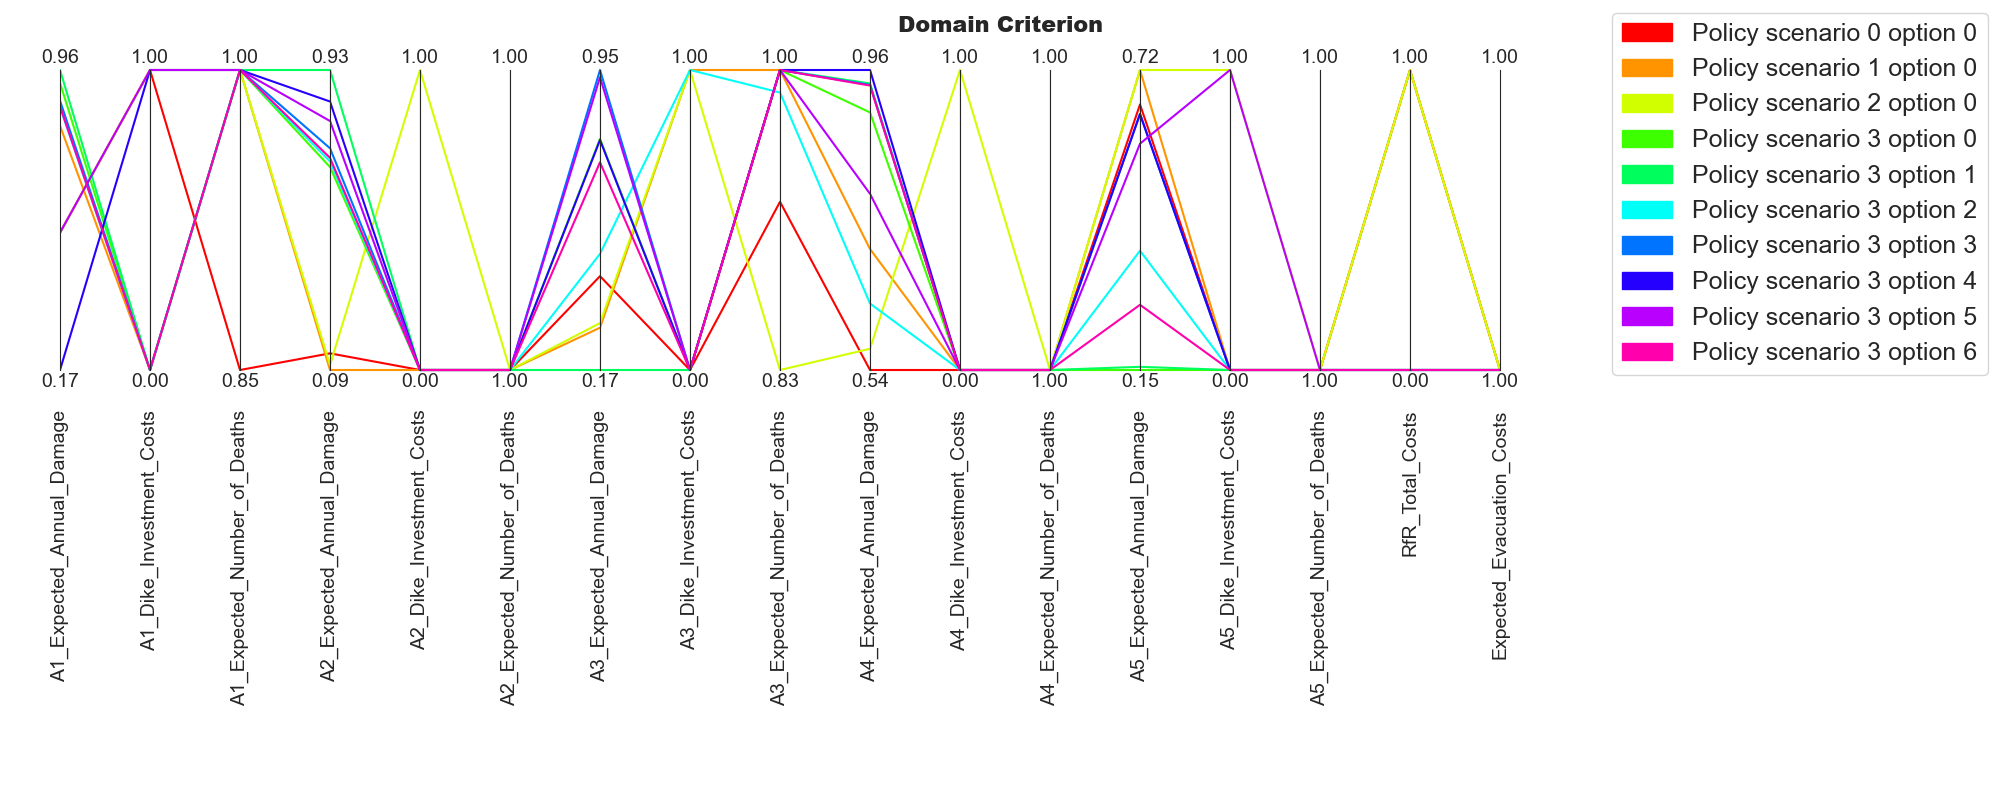
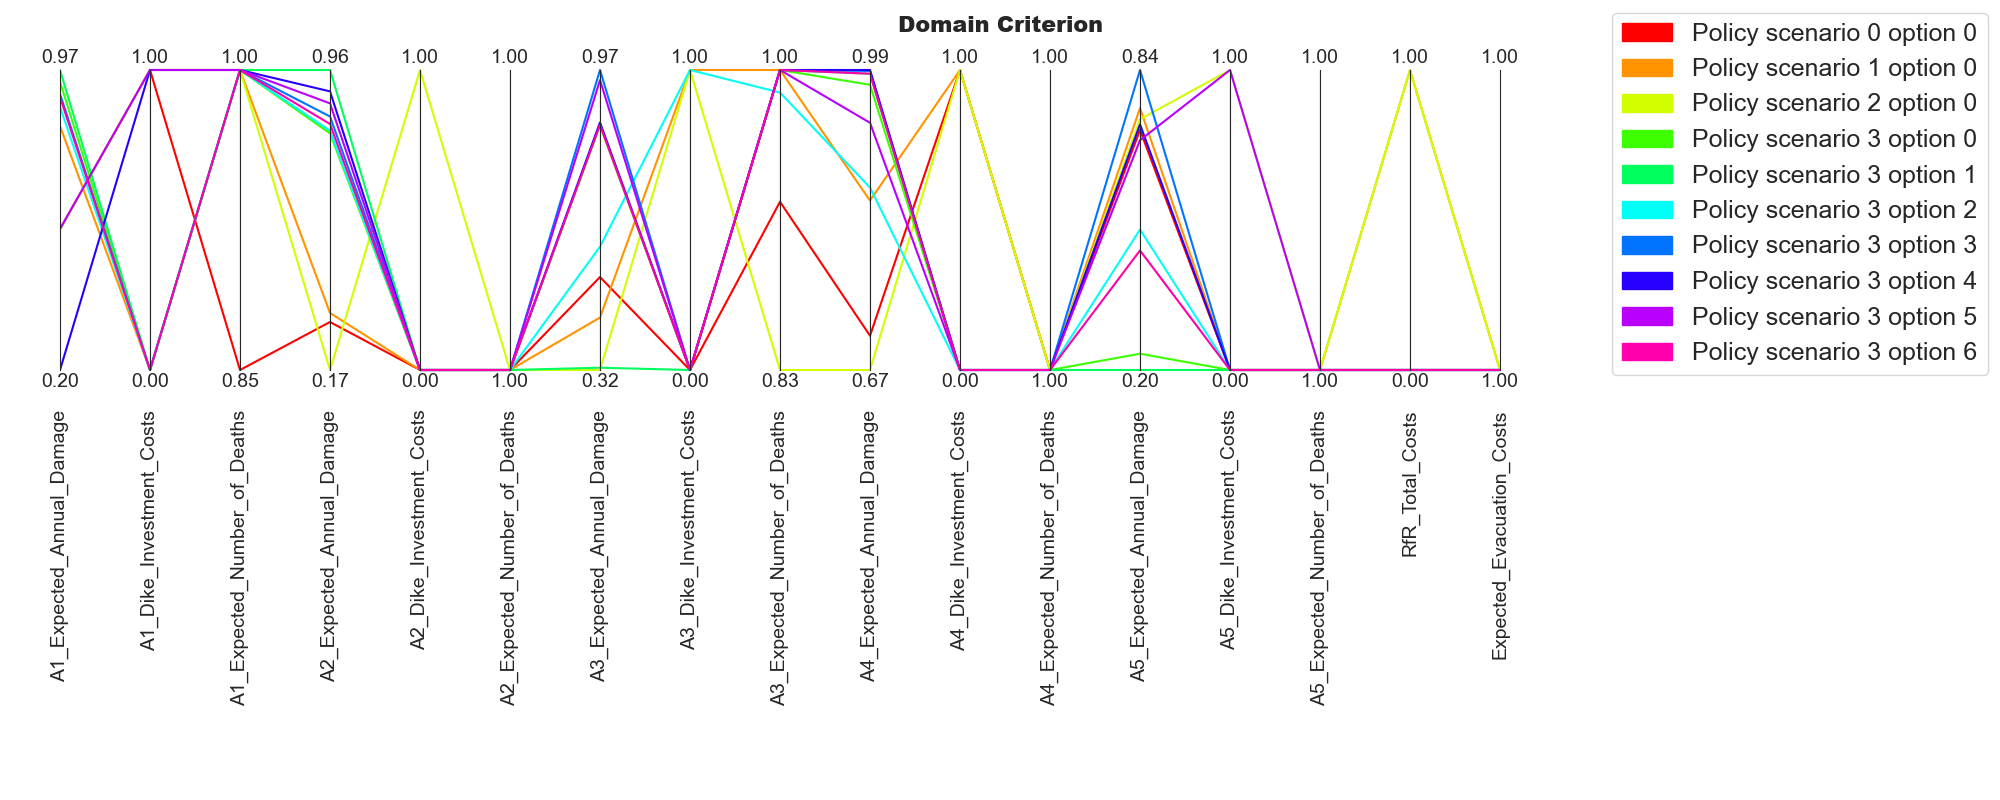
Final epsilons and remove dike_model_optimization

diff --git a/final assignment/multi_MORDM_robustness.py b/final assignment/multi_MORDM_robustness.py
@@ -46,16 +46,17 @@ if __name__ == "__main__":
     ### Domain criterion ###
     print("\nThe domain criterion is checked:")
     # set thresholds for outcome preferences
-    thresholds = {'A1_Expected_Annual_Damage': 1000000, 'A1_Dike_Investment_Costs': 5000000,
-                  'A1_Expected_Number_of_Deaths': 1, 'A2_Expected_Annual_Damage': 1000000,
-                  'A2_Dike_Investment_Costs': 5000000, 'A2_Expected_Number_of_Deaths': 1,
-                   'A3_Expected_Annual_Damage': 1000000,
-                   'A3_Dike_Investment_Costs': 5000000, 'A3_Expected_Number_of_Deaths': 1,
-                   'A4_Expected_Annual_Damage': 1000000,
-                   'A4_Dike_Investment_Costs': 5000000, 'A4_Expected_Number_of_Deaths': 1,
-                   'A5_Expected_Annual_Damage': 1000000,
-                   'A5_Dike_Investment_Costs': 5000000, 'A5_Expected_Number_of_Deaths': 1,
-                   'RfR_Total_Costs': 200000000, 'Expected_Evacuation_Costs': 1000000}
+    thresholds = {'A1_Expected_Annual_Damage': 10000000,
+                  'A1_Dike_Investment_Costs': 20000000, 'A1_Expected_Number_of_Deaths': 1,
+                  'A2_Expected_Annual_Damage': 10000000,
+                  'A2_Dike_Investment_Costs': 20000000, 'A2_Expected_Number_of_Deaths': 1,
+                   'A3_Expected_Annual_Damage': 10000000,
+                   'A3_Dike_Investment_Costs': 20000000, 'A3_Expected_Number_of_Deaths': 1,
+                   'A4_Expected_Annual_Damage': 10000000,
+                   'A4_Dike_Investment_Costs': 20000000, 'A4_Expected_Number_of_Deaths': 1,
+                   'A5_Expected_Annual_Damage': 10000000,
+                   'A5_Dike_Investment_Costs': 20000000, 'A5_Expected_Number_of_Deaths': 1,
+                   'RfR_Total_Costs': 100000000, 'Expected_Evacuation_Costs': 1000000}
 
     print("Domain criterion thresholds are set.")
 
@@ -152,6 +153,10 @@ if __name__ == "__main__":
                              'A5_Expected_Number_of_Deaths', 'RfR_Total_Costs',
                              'Expected_Evacuation_Costs']]
 
+    # save max regret file
+    regret_file_path = os.path.join("data", "robustness_results", "regret_values.xlsx")
+    max_regret.to_excel(regret_file_path)
+
     print("Outcomes of interest for the regret criterion are set.")
     print("Regret criterion plot will be created and shown.")
 
@@ -173,7 +178,7 @@ if __name__ == "__main__":
 
     # format figure
     fig = plt.gcf()
-    fig.set_size_inches(26, 14)
+    fig.set_size_inches(26, 21)
     fig.subplots_adjust(bottom=0.5, left=0.05, right=0.95, top=0.95)
     fig.suptitle("Regret Criterion", fontsize=16, fontweight=800, y=0.98)
     fig.legend(handles=legend_handles, loc="lower center", fontsize=18)
